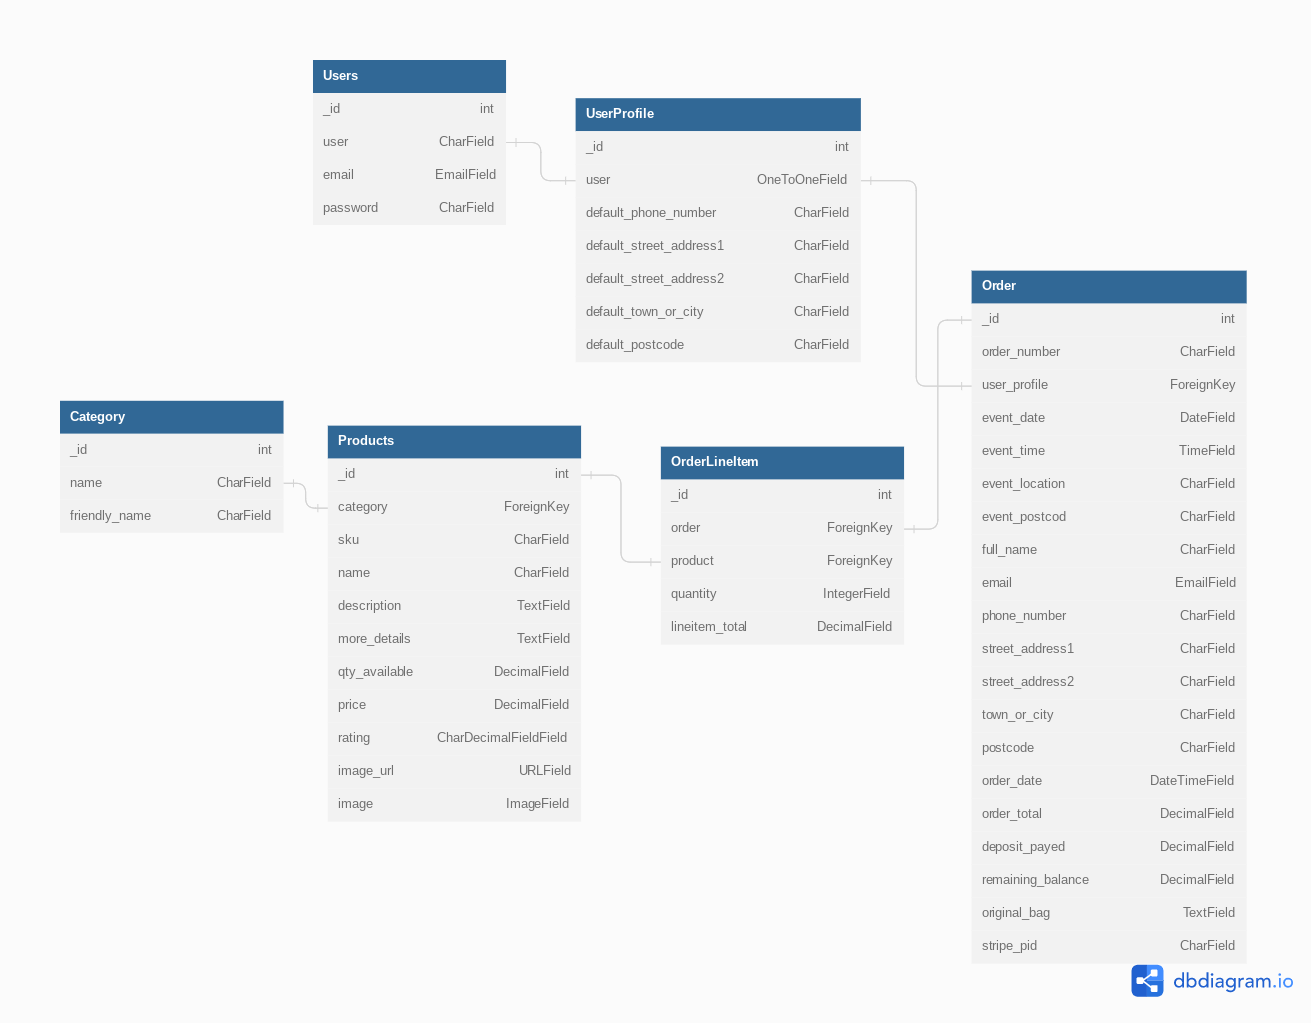
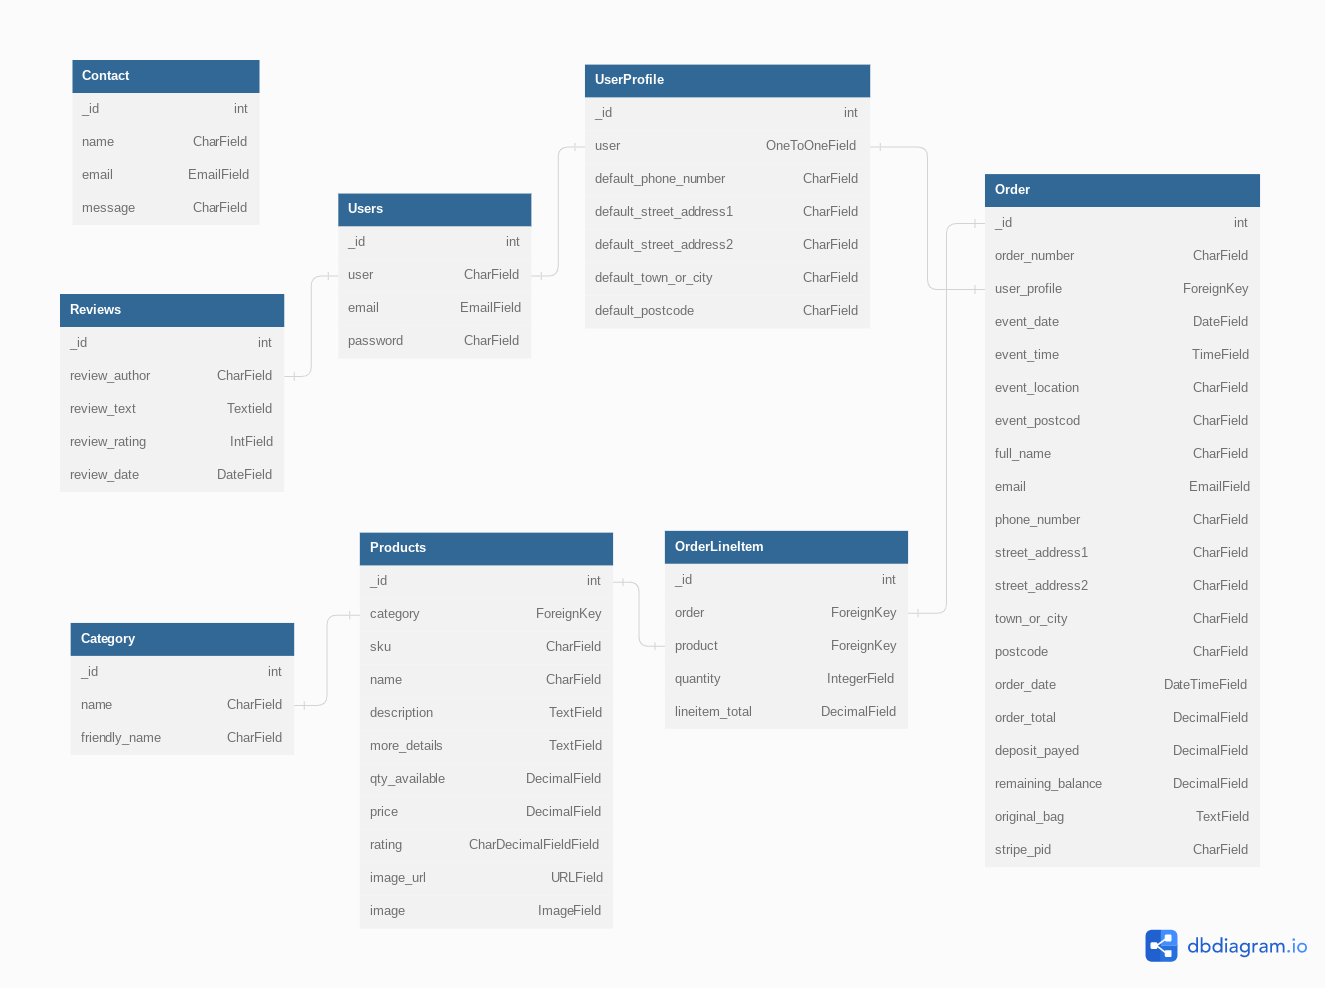
Updated readme with Contact and Review app details

diff --git a/checkout/templates/checkout/checkout.html b/checkout/templates/checkout/checkout.html
@@ -67,6 +67,10 @@
                         <p class="my-0"><strong>£{{ deposit | floatformat:2 }}</strong></p>
                         <p class="my-0">£{{ remaining_balance | floatformat:2 }}</p>
                     </div>
+                    <div class="col-4"></div>
+                    <div class="col-8 text-right">
+                        <p class="my-0">(remaining balance to be payed directly to your representative on the day of the event)</p>                        
+                    </div>
                 </div>
             </div>
             <div class="col-12 col-lg-6">
@@ -128,7 +132,8 @@
 							<span class="icon">
 								<i class="fas fa-exclamation-circle"></i>
 							</span>
-							<span>Your card will be charged a deposit of <strong>£{{ deposit|floatformat:2 }}</strong></span>
+							<span>Your card will be charged a deposit of <strong>£{{ deposit|floatformat:2 }}</strong></span><br>
+							<span>Remaining amount payed to your Joio Entertainment representative on the day of the event.</strong></span>
 						</p>
 					</div>
                 </form>

diff --git a/README.md b/README.md
@@ -207,6 +207,8 @@ This schema is essential for developing the website's functionality, its feature
 - OrderLineItem - It contains information relating to an order and its items. Connects to the Product and Order model.
 - Product - It contains all of the information relating to a product found on the website. Connects to OrderLineItem and Category.
 - Category - It contains all of the information relating to a category. Related to products for filtering and sorting. Connects to the Product model.
+- Reviews - It contains all the information relating to a review that has been submitted by an user
+-Contact - It contains all the information relating to a contact form that has been submitted by an user
 
 [Back to table of contents](#table-of-contents)
 
@@ -468,6 +470,7 @@ The Shopping Bag is the page where users add their products to, before advancing
 - Grand total - the grand total of bag total and the delivery in GBP (£).
 - 'Keep Shopping' button which directs user back to the main products page when clicked.
 - 'Secure Checkout' button which directs user to the Checkout page when clicked.
+- The number of each item selected is the maximum possible per event. As such the item's availability never reduces in the backend since they are only reserved for the specific day of the event.
 
 
 ### - Checkout page
@@ -487,9 +490,11 @@ Form for event information, including location of event and time and date. Event
 - 'Adust Bag' button, to return to Shopping Bag on click.
 - 'Complete Order' button. Users will click this button to confirm all and authorize the purchase. Take them to Checkout Success page if valid, otherwise returns here.
 - Text message underneath buttons to inform user of the charge to their card when processed.
+- The store owner always requests that the final payment be made on the day of the event, face to face with the client. This is why the online store only takes a deposit for the event from the client.
 
 
 ### - Checkout Success page
+
 The Checkout Success page is where users get a confirmation of their order details after a successful purchase. The features include:
 - 'Thank You' page title at top of page.
 - A message to say that all details are forwarded to the given email.
@@ -501,9 +506,17 @@ The Checkout Success page is where users get a confirmation of their order detai
 
 This page contains a small back-story of the Joio company.
 
+### - Reviews page
+
+This page contains all of the reviews that have been written by registered users of the site.
+
+### - Create Review page
+
+This page allows registered users to submit a review of the company. The reviews are divided into a comments section and a rating section where the company can be rated out of 5 by the review author.
+
 ### - Contact page
 
-This page contains contact information and social media links ot the company. Page title, text and links against the background image found on the homepage.
+This page contains contact information and social media links ot the company. Page title, text and links against the background image found on the homepage. There is a form on the pach that users can submit with any questions or comments they care to provide the company with. these are filled out in a form and are stored with the person's contact details in the store admin.
 
 
 ### - Sign In page
